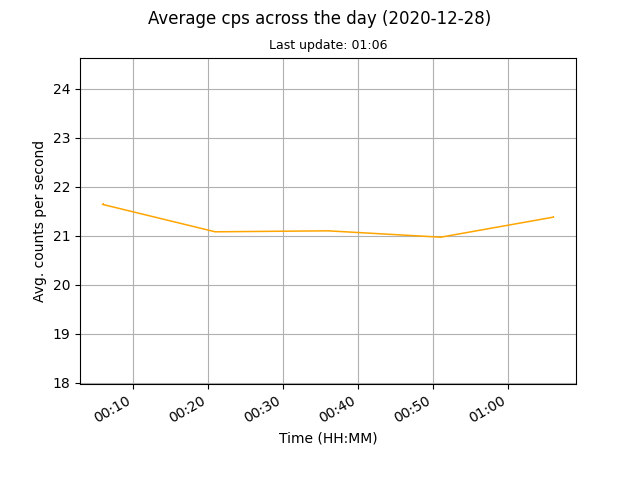
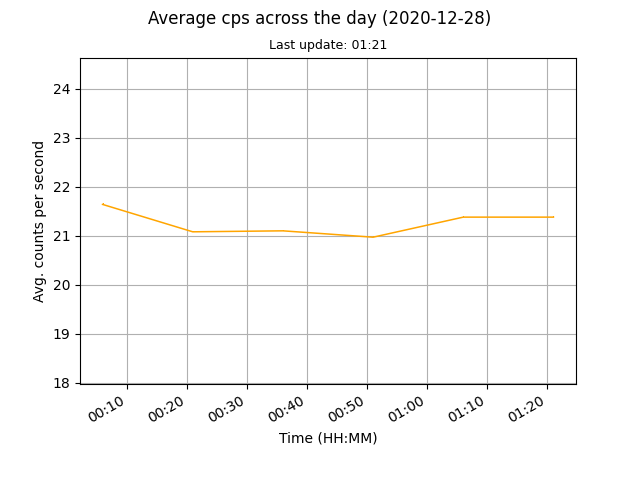
auto data update

diff --git a/docs/index.html b/docs/index.html
@@ -46,7 +46,7 @@
 	<br>
 	
 	<p>Current counts per second (cps): 21.38</p>
-	<p>Last update: 2020-12-28, 01:06</p>
+	<p>Last update: 2020-12-28, 01:21</p>
 
 	<p><a href="images/monthly.png"><img src="images/monthly.png" alt="Mothly avg cps data"></a><a href="images/daily.png"><img src="images/daily.png" alt="Daily avg cps data"></a></p>
 	
